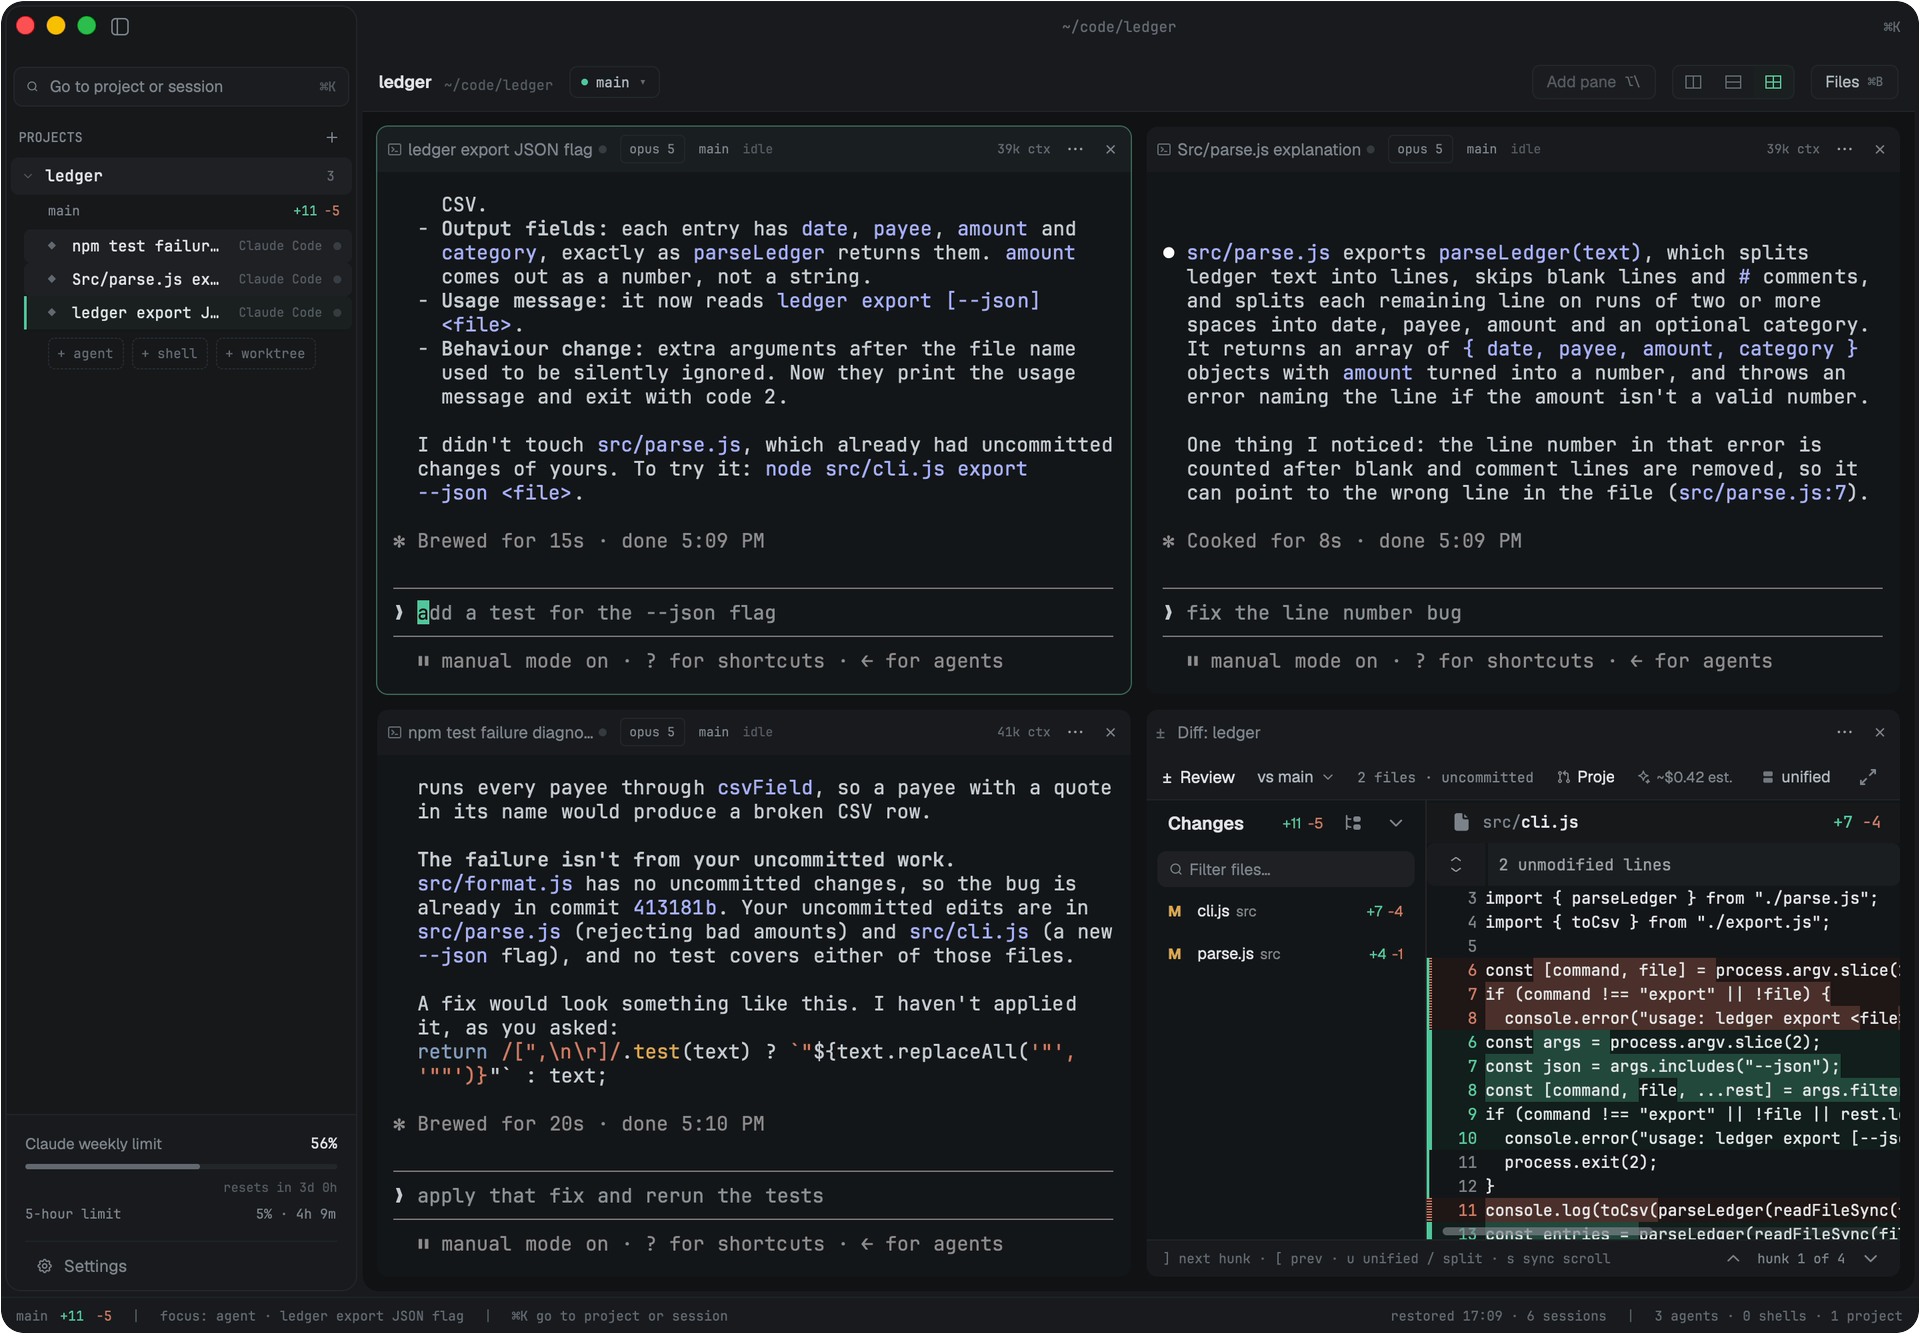
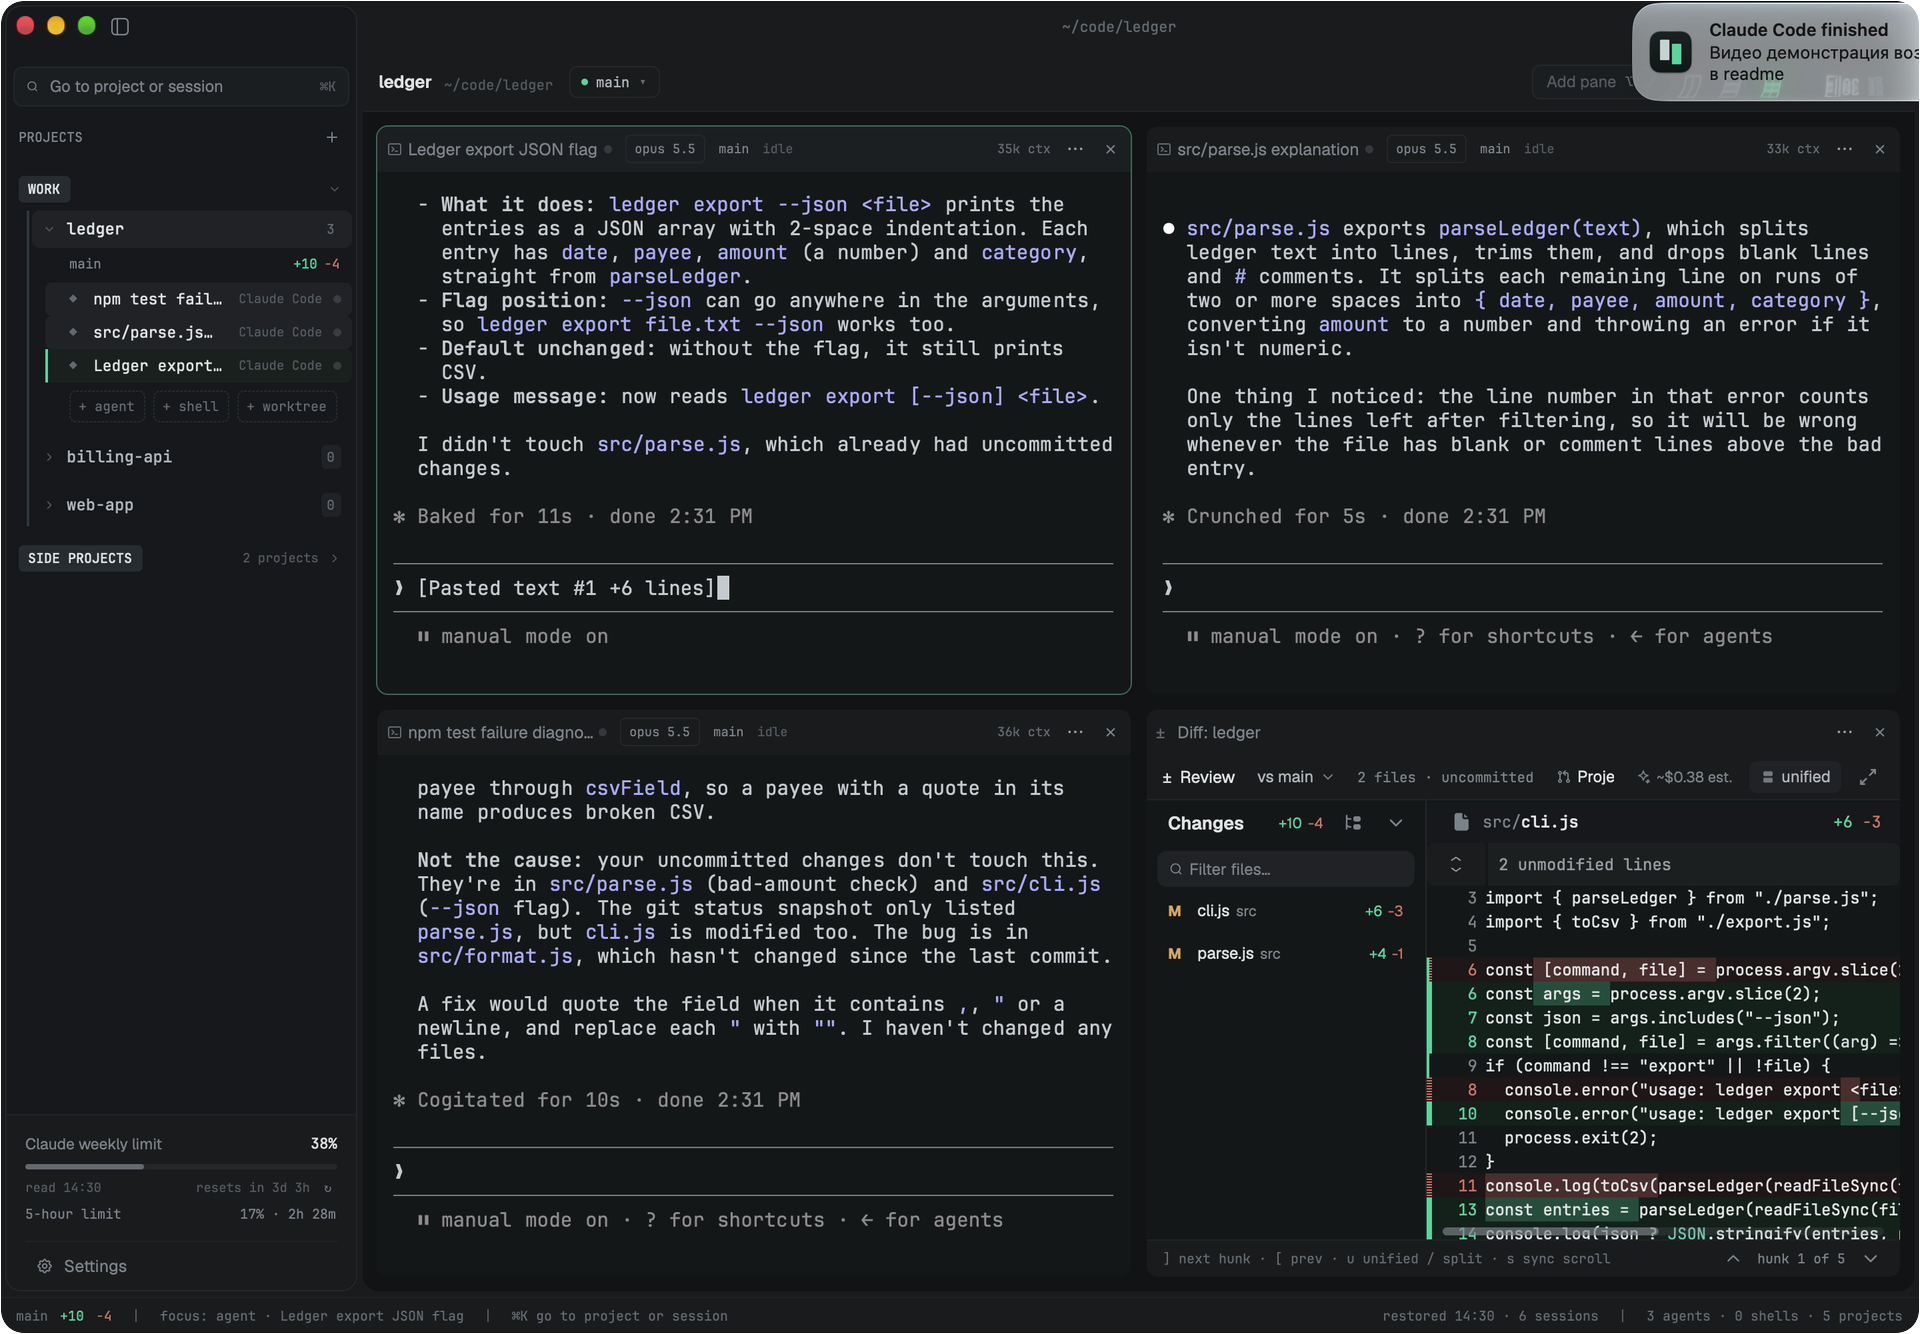
docs(readme): show groups and handing an answer over
A new demo video that goes past the split panes: an agent waiting on a
permission prompt and the jump to it, one agent's answer handed to
another, project groups, plan limits, the diff and the file tree. The
hero and grid images are retaken in both themes from the same run, so
the rail shows groups, and the feature list gains the two recent ones.

diff --git a/README.md b/README.md
@@ -13,11 +13,11 @@
 
 <picture>
   <source media="(prefers-color-scheme: light)" srcset="assets/images/hero-light.png" />
-  <img src="assets/images/hero-dark.png" alt="Splitlane with three Claude Code sessions in one project. The rail on the left lists them; the right-hand pane shows a permission prompt, its header reads 'waiting for you', and the title bar reads '1 agent waiting'." width="100%" />
+  <img src="assets/images/hero-dark.png" alt="Splitlane with three Claude Code sessions in one project. The rail on the left lists them under the project, in a group named Work; the right-hand pane shows a permission prompt, its header reads 'waiting for you', and the title bar reads '1 agent waiting'." width="100%" />
 </picture>
 <p align="center"><sub>Three agents in one project. One is working, one has finished, and one is asking to run <code>npm test</code> - the rail, its pane header and the title bar all say so.</sub></p>
 
-https://github.com/user-attachments/assets/42481287-e16a-42b6-b825-31a5a133f470
+https://github.com/user-attachments/assets/8dbb4e22-822f-4928-90e0-1b394e192eb1
 
 Splitlane is a native desktop app for supervising several CLI coding agents at
 once. Every agent runs in a real terminal pane, exactly as it would in your own
@@ -71,6 +71,11 @@ approval UI to keep in sync.
   open sessions and its past sessions, and you pick one inside the pane.
 - **The rail.** One list of projects, each expanding to its sessions with their
   status. `⌥⇥` jumps to the next session waiting for you.
+- **Groups.** Projects can sit under named labels in the rail. Fold a group
+  away, or keep its project names out of notifications.
+- **Hand an answer over.** A session's last answer goes to another agent on
+  screen from the pane's menu, onto its input line; you press Enter. `⌘⌥C`
+  copies it instead.
 - **Diff.** A project's uncommitted changes, with a file list, a filter and a
   revision picker, in a pane next to the agents that made them.
 - **Files.** A tree of the project with git change marks (`⌘B`).
